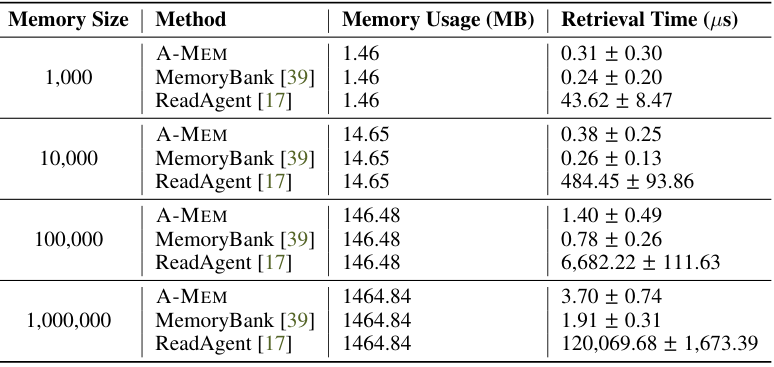
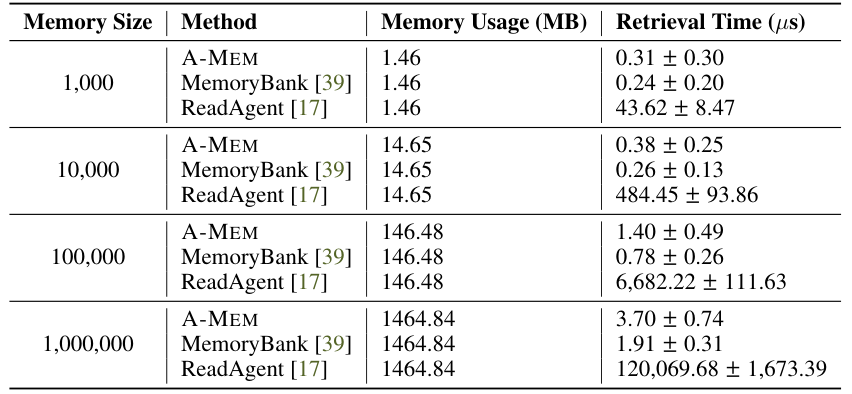
docs: 표 이미지 전수 점검 — 빠진 표 추가, 잘림·위치 수정
- 본문이 다루는데 빠져 있던 논문 표 30개 추가
  (ReAct T5, Reflexion T5, Toolformer T6~9, LLM Agent Survey T1, HippoRAG T7, LongMemEval T1,
   From Human Memory T1~3, NEMORI T6·T7, SYNAPSE T2, AMV-L T4·T5, Multi-Layered T II~IV,
   MemMachine T3·T8·T12, Janus T3, Rate-Distortion T2·T4, Portability T2)
- 위·아래 테두리가 잘린 표 다시 자름 (A-MEM T4, Mem0 T1, Portability T3·T4)
- 표 설명 문장이 이미지보다 뒤에 있던 곳 순서 수정, 이미지에 보이는 행·열을 가리키도록 앞 문장 보완

diff --git a/_posts/2026-09-26-AMV-L Paper review.md b/_posts/2026-09-26-AMV-L Paper review.md
@@ -186,9 +186,13 @@ TTL은 위쪽 꼬리가 길고, AMV-L은 hot 항목과 상한이 있는 warm 샘
 
 ### **10.3 Cost and quality tradeoffs**
 
-토큰 오버헤드는 LRU보다 약 6% 낮다.
+토큰 오버헤드는 LRU보다 약 6% 낮다. 아래 논문 Table 4의 Tokens/request mean 행에서 LRU 716.782, AMV-L 675.388이다. 주입 상한을 고정했으니 Chunks/request p95와 Memory refs/request p95는 세 정책 모두 48로 같다.
 
-검색 품질은 검색된 항목의 값 평균(retrieved value mean)으로 잰다. 워크로드가 항목마다 붙여둔 값 라벨의 평균이라, AMV-L과 LRU는 0.947 vs 0.949로 거의 같고 TTL(0.714)보다는 높다.
+![요청당 토큰과 주입 항목 수 (논문 Table 4)](https://momozzing.github.io/assets/images/amv-l/table4-token-cost.png)
+
+검색 품질은 검색된 항목의 값 평균(retrieved value mean)으로 잰다. 워크로드가 항목마다 붙여둔 값 라벨의 평균이라, AMV-L과 LRU는 0.947 vs 0.949로 거의 같고 TTL(0.714)보다는 높다. 아래 논문 Table 5의 Retrieved value mean 행이다.
+
+![검색 품질과 값 효용 (논문 Table 5)](https://momozzing.github.io/assets/images/amv-l/table5-retrieval-quality.png)
 -> 에이전트가 과제를 맞혔는지(과제 정확도)는 안 쟀다. 그래서 "품질은 그대로"라고 하려면 이 값 라벨이 실제 과제 품질을 따라간다는 가정이 필요하다.
 
 ### **10.4 Discussion**

diff --git a/_posts/2026-09-23-A-MEM Paper review.md b/_posts/2026-09-23-A-MEM Paper review.md
@@ -137,9 +137,9 @@ GPT 모델에서는 다르다. GPT-4o의 Single Hop은 LOCOMO가 더 높고(61.5
 
 Link Generation(LG)과 Memory Evolution(ME)을 하나씩 빼본다.
 
-![LG·ME ablation (논문 Table 3)](https://momozzing.github.io/assets/images/a-mem/table3-ablation.png)
+아래는 GPT-4o-mini를 기반 모델로 잰 LoCoMo 결과다(논문 Table 3). 범주별 F1 열을 세 줄끼리 비교하면 된다.
 
-GPT-4o-mini를 기반 모델로 잰 LoCoMo 결과다. 위 Table 3에서 범주별 F1 열을 세 줄끼리 비교하면 된다.
+![LG·ME ablation (논문 Table 3)](https://momozzing.github.io/assets/images/a-mem/table3-ablation.png)
 
 둘 다 빼면 모든 범주에서 크게 떨어진다. Multi Hop은 27.02 → 9.65다. 링크만 두면(w/o ME) 중간이고, 진화까지 켜면 Temporal이 31.24 → 45.85로 제일 많이 오른다.
 링크 생성이 메모리 조직의 토대고, 진화는 거기에 정제를 더하는 거라고 한다.
